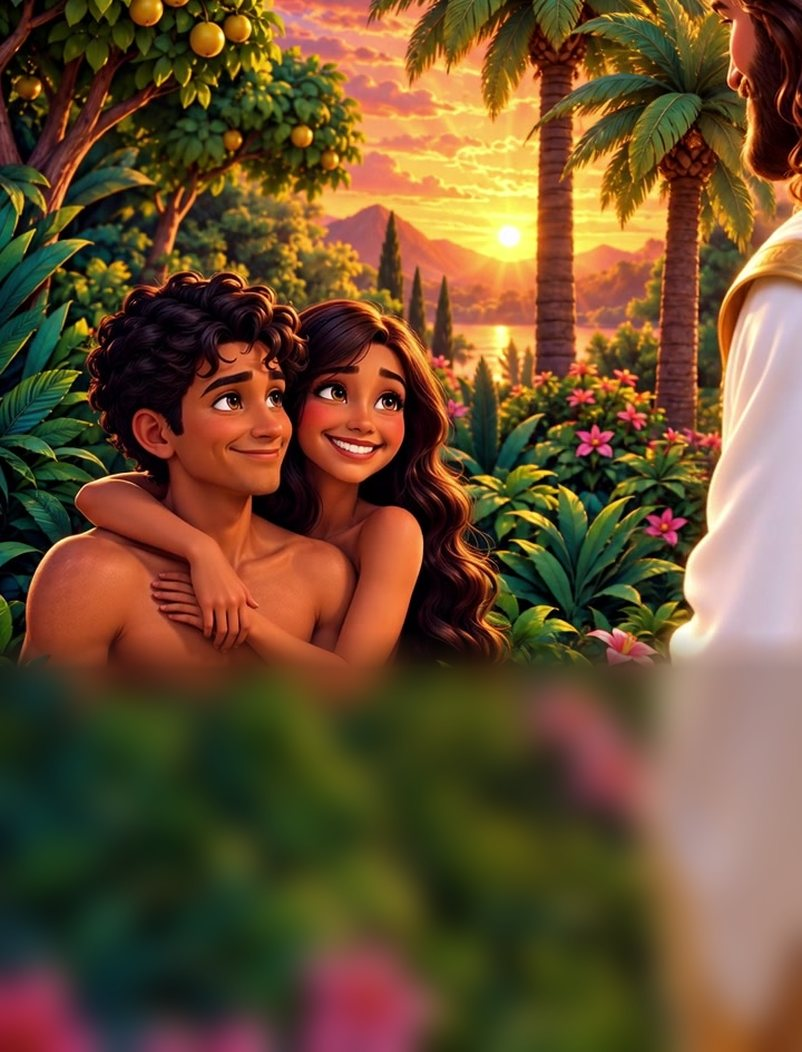
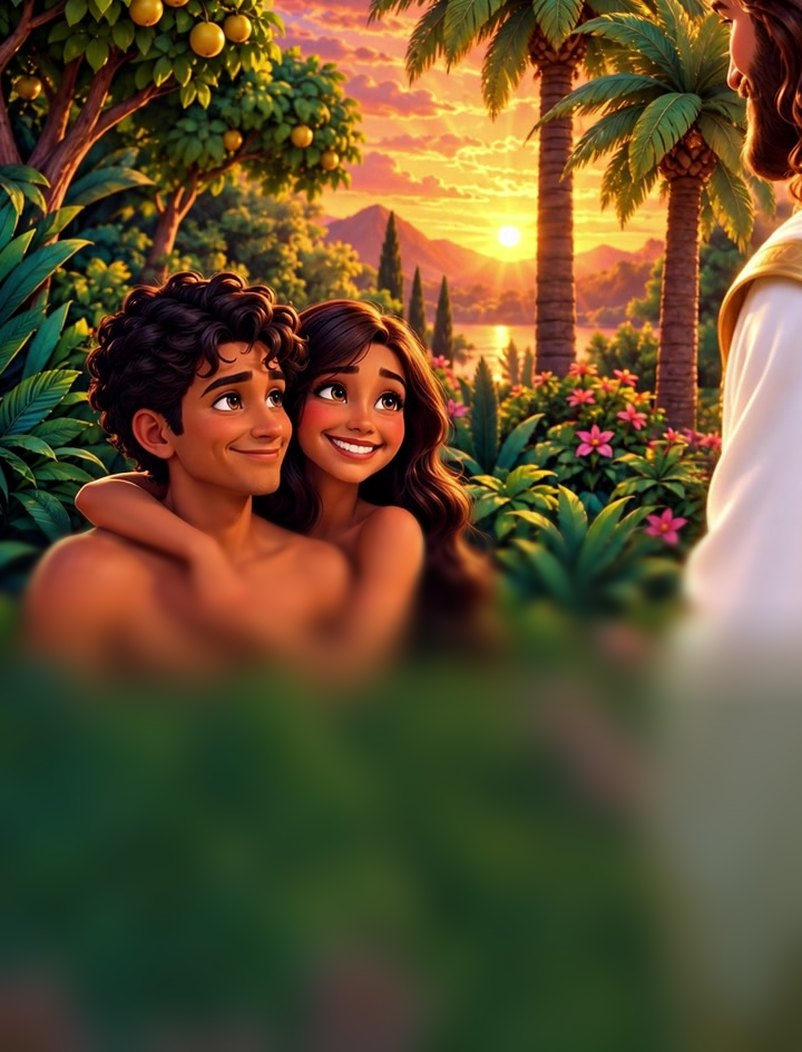
Tract: book-style progressive blur and text
Seven blur levels blended row by row so the picture softens gradually, then
deepens into the chapter colour like the book's pages; left-aligned words
with a gold page number.

Claude-Session: https://claude.ai/code/session_018ybeG9ZsRbCjgqasvbQwyc

diff --git a/tract.html b/tract.html
@@ -61,17 +61,13 @@ html,body{margin:0;background:#e9e7ef;color:var(--ink);font-family:var(--body)}
    its bottom melts into a blurred, chapter-tinted copy of the same picture, and the words sit on the blur in white. */
 .fr{position:absolute;inset:.12in;border-radius:.13in;overflow:hidden;background:#000;box-shadow:0 2pt 6pt rgba(0,0,0,.25)}
 .fr img{position:absolute;inset:0;width:100%;height:100%;object-fit:cover;display:block}
-/* the blur is baked into the pictures (tools/tract_art.py, blur from 60 %); this only adds the chapter colour on top of it */
-.fr .tint{position:absolute;inset:0;opacity:.5}
-.green .tint{background:linear-gradient(transparent 60%,var(--green) 63.5%)}.purple .tint{background:linear-gradient(transparent 60%,var(--purple) 63.5%)}
-.night .tint{background:linear-gradient(transparent 60%,var(--night) 63.5%)}.orange .tint{background:linear-gradient(transparent 60%,var(--orange) 63.5%)}
-.sky .tint{background:linear-gradient(transparent 60%,var(--sky) 63.5%)}
-.fr .txt{position:absolute;left:.2in;right:.2in;top:62%;bottom:.12in;display:flex;flex-direction:column;justify-content:center;align-items:center;color:#fff;text-align:center;
-  text-shadow:0 1px 2.5pt rgba(0,0,0,.55),0 0 10pt rgba(0,0,0,.3)}
-.num{position:absolute;left:.12in;top:.12in;z-index:2;width:.38in;height:.38in;border-radius:50%;
-  background:rgba(255,255,255,.92);color:var(--ink);font:900 12.5pt/.38in var(--display);text-align:center;box-shadow:0 1pt 4pt rgba(0,0,0,.3)}
-.cap{margin:0;font:700 10.2pt/1.38 var(--body)}
-.ref{margin:.07in 0 0;font:700 7.4pt/1.2 var(--body);opacity:.85;letter-spacing:.02em}
+/* the blur and the chapter colour are baked into the pictures (tools/tract_art.py), the same look as the book's pages */
+.fr .txt{position:absolute;left:.22in;right:.22in;bottom:.2in;color:#fff;text-align:left;
+  text-shadow:0 1px 2.5pt rgba(0,0,0,.55),0 0 10pt rgba(0,0,0,.25)}
+[dir=rtl] .fr .txt{text-align:right}
+.fr .no{margin:0 0 .04in;font:800 10pt var(--display);color:var(--gold)}
+.cap{margin:0;font:400 11pt/1.4 var(--body)}
+.ref{margin:.08in 0 0;font:400 7.6pt/1.2 var(--body);opacity:.8}
 .hint{display:inline-block;margin:.09in 0 0;padding:.04in .14in;border-radius:999px;background:var(--gold);color:#2B2233;font:900 8.2pt/1.2 var(--display);text-shadow:none;box-shadow:0 1.5pt 0 var(--gold2)}
 
 /* cover */
@@ -159,8 +155,8 @@ html,body{margin:0;background:#e9e7ef;color:var(--ink);font-family:var(--body)}
       const [img, y, col] = ART[i], [cap, ref] = tr.panels[i];
       const hint = i === 3 ? tr.unfold : i === 11 ? tr.turn : '';
       const pic = `<img src="art/tract/${String(i + 1).padStart(2, '0')}.jpg" alt="">`;
-      return [col, `<div class="fr">${pic}<div class="tint"></div>` +
-        `<div class="txt"><p class="cap">${esc(cap)}</p><p class="ref">${esc(ref)}</p>${hint ? `<p class="hint">${esc(hint)}</p>` : ''}</div></div><div class="num">${i + 1}</div>`];
+      return [col, `<div class="fr">${pic}` +
+        `<div class="txt"><p class="no">${i + 1}</p><p class="cap">${esc(cap)}</p><p class="ref">${esc(ref)}</p>${hint ? `<p class="hint">${esc(hint)}</p>` : ''}</div></div>`];
     };
     const coverP = ['cover', `<div class="art"></div><div class="shade"></div><div class="words"><h1>${esc(cover.title)}</h1><span class="tag">${esc(tr.tag)}</span></div>`];
     const backP = ['sky', `<div class="blurbg" style="background-image:url(art/tract/bg-gates-end.jpg)"></div><div class="sheetcard back"><h2>${esc(tr.home)}</h2><p class="intro">${esc(tr.free)}</p><div class="qr">${svg}</div>` +

diff --git a/ar/index.html b/ar/index.html
@@ -20,8 +20,8 @@
 <meta name="apple-mobile-web-app-status-bar-style" content="black-translucent">
 <meta name="theme-color" content="#2F7FD9">
 <link rel="icon" href="art/favicon-48.png" sizes="48x48">
-<link rel="stylesheet" href="fonts/fonts.css?v=20261017205320">
-<link rel="stylesheet" href="app.css?v=20261017205320">
+<link rel="stylesheet" href="fonts/fonts.css?v=20261017205911">
+<link rel="stylesheet" href="app.css?v=20261017205911">
 </head>
 <body>
 <main class="book" id="book"></main>
@@ -43,7 +43,7 @@
 </div>
 <div class="tip" id="tip" role="status" hidden></div>
 <div class="toast" id="toast" role="status" aria-live="polite"></div>
-<script src="app.js?v=20261017205320"></script>
+<script src="app.js?v=20261017205911"></script>
 <!-- Cloudflare Web Analytics (anonymous, no cookies) --><script defer src="https://static.cloudflareinsights.com/beacon.min.js" data-cf-beacon='{"token": "f07f476aee854a4f9d3679ffcecc1fa7"}'></script>
 </body>
 </html>

diff --git a/bn/index.html b/bn/index.html
@@ -20,8 +20,8 @@
 <meta name="apple-mobile-web-app-status-bar-style" content="black-translucent">
 <meta name="theme-color" content="#2F7FD9">
 <link rel="icon" href="art/favicon-48.png" sizes="48x48">
-<link rel="stylesheet" href="fonts/fonts.css?v=20261017205320">
-<link rel="stylesheet" href="app.css?v=20261017205320">
+<link rel="stylesheet" href="fonts/fonts.css?v=20261017205911">
+<link rel="stylesheet" href="app.css?v=20261017205911">
 </head>
 <body>
 <main class="book" id="book"></main>
@@ -43,7 +43,7 @@
 </div>
 <div class="tip" id="tip" role="status" hidden></div>
 <div class="toast" id="toast" role="status" aria-live="polite"></div>
-<script src="app.js?v=20261017205320"></script>
+<script src="app.js?v=20261017205911"></script>
 <!-- Cloudflare Web Analytics (anonymous, no cookies) --><script defer src="https://static.cloudflareinsights.com/beacon.min.js" data-cf-beacon='{"token": "f07f476aee854a4f9d3679ffcecc1fa7"}'></script>
 </body>
 </html>

diff --git a/da/index.html b/da/index.html
@@ -20,8 +20,8 @@
 <meta name="apple-mobile-web-app-status-bar-style" content="black-translucent">
 <meta name="theme-color" content="#2F7FD9">
 <link rel="icon" href="art/favicon-48.png" sizes="48x48">
-<link rel="stylesheet" href="fonts/fonts.css?v=20261017205320">
-<link rel="stylesheet" href="app.css?v=20261017205320">
+<link rel="stylesheet" href="fonts/fonts.css?v=20261017205911">
+<link rel="stylesheet" href="app.css?v=20261017205911">
 </head>
 <body>
 <main class="book" id="book"></main>
@@ -43,7 +43,7 @@
 </div>
 <div class="tip" id="tip" role="status" hidden></div>
 <div class="toast" id="toast" role="status" aria-live="polite"></div>
-<script src="app.js?v=20261017205320"></script>
+<script src="app.js?v=20261017205911"></script>
 <!-- Cloudflare Web Analytics (anonymous, no cookies) --><script defer src="https://static.cloudflareinsights.com/beacon.min.js" data-cf-beacon='{"token": "f07f476aee854a4f9d3679ffcecc1fa7"}'></script>
 </body>
 </html>

diff --git a/de/index.html b/de/index.html
@@ -20,8 +20,8 @@
 <meta name="apple-mobile-web-app-status-bar-style" content="black-translucent">
 <meta name="theme-color" content="#2F7FD9">
 <link rel="icon" href="art/favicon-48.png" sizes="48x48">
-<link rel="stylesheet" href="fonts/fonts.css?v=20261017205320">
-<link rel="stylesheet" href="app.css?v=20261017205320">
+<link rel="stylesheet" href="fonts/fonts.css?v=20261017205911">
+<link rel="stylesheet" href="app.css?v=20261017205911">
 </head>
 <body>
 <main class="book" id="book"></main>
@@ -43,7 +43,7 @@
 </div>
 <div class="tip" id="tip" role="status" hidden></div>
 <div class="toast" id="toast" role="status" aria-live="polite"></div>
-<script src="app.js?v=20261017205320"></script>
+<script src="app.js?v=20261017205911"></script>
 <!-- Cloudflare Web Analytics (anonymous, no cookies) --><script defer src="https://static.cloudflareinsights.com/beacon.min.js" data-cf-beacon='{"token": "f07f476aee854a4f9d3679ffcecc1fa7"}'></script>
 </body>
 </html>

diff --git a/en/index.html b/en/index.html
@@ -20,8 +20,8 @@
 <meta name="apple-mobile-web-app-status-bar-style" content="black-translucent">
 <meta name="theme-color" content="#2F7FD9">
 <link rel="icon" href="art/favicon-48.png" sizes="48x48">
-<link rel="stylesheet" href="fonts/fonts.css?v=20261017205320">
-<link rel="stylesheet" href="app.css?v=20261017205320">
+<link rel="stylesheet" href="fonts/fonts.css?v=20261017205911">
+<link rel="stylesheet" href="app.css?v=20261017205911">
 </head>
 <body>
 <main class="book" id="book"></main>
@@ -43,7 +43,7 @@
 </div>
 <div class="tip" id="tip" role="status" hidden></div>
 <div class="toast" id="toast" role="status" aria-live="polite"></div>
-<script src="app.js?v=20261017205320"></script>
+<script src="app.js?v=20261017205911"></script>
 <!-- Cloudflare Web Analytics (anonymous, no cookies) --><script defer src="https://static.cloudflareinsights.com/beacon.min.js" data-cf-beacon='{"token": "f07f476aee854a4f9d3679ffcecc1fa7"}'></script>
 </body>
 </html>

diff --git a/es/index.html b/es/index.html
@@ -20,8 +20,8 @@
 <meta name="apple-mobile-web-app-status-bar-style" content="black-translucent">
 <meta name="theme-color" content="#2F7FD9">
 <link rel="icon" href="art/favicon-48.png" sizes="48x48">
-<link rel="stylesheet" href="fonts/fonts.css?v=20261017205320">
-<link rel="stylesheet" href="app.css?v=20261017205320">
+<link rel="stylesheet" href="fonts/fonts.css?v=20261017205911">
+<link rel="stylesheet" href="app.css?v=20261017205911">
 </head>
 <body>
 <main class="book" id="book"></main>
@@ -43,7 +43,7 @@
 </div>
 <div class="tip" id="tip" role="status" hidden></div>
 <div class="toast" id="toast" role="status" aria-live="polite"></div>
-<script src="app.js?v=20261017205320"></script>
+<script src="app.js?v=20261017205911"></script>
 <!-- Cloudflare Web Analytics (anonymous, no cookies) --><script defer src="https://static.cloudflareinsights.com/beacon.min.js" data-cf-beacon='{"token": "f07f476aee854a4f9d3679ffcecc1fa7"}'></script>
 </body>
 </html>

diff --git a/fr/index.html b/fr/index.html
@@ -20,8 +20,8 @@
 <meta name="apple-mobile-web-app-status-bar-style" content="black-translucent">
 <meta name="theme-color" content="#2F7FD9">
 <link rel="icon" href="art/favicon-48.png" sizes="48x48">
-<link rel="stylesheet" href="fonts/fonts.css?v=20261017205320">
-<link rel="stylesheet" href="app.css?v=20261017205320">
+<link rel="stylesheet" href="fonts/fonts.css?v=20261017205911">
+<link rel="stylesheet" href="app.css?v=20261017205911">
 </head>
 <body>
 <main class="book" id="book"></main>
@@ -43,7 +43,7 @@
 </div>
 <div class="tip" id="tip" role="status" hidden></div>
 <div class="toast" id="toast" role="status" aria-live="polite"></div>
-<script src="app.js?v=20261017205320"></script>
+<script src="app.js?v=20261017205911"></script>
 <!-- Cloudflare Web Analytics (anonymous, no cookies) --><script defer src="https://static.cloudflareinsights.com/beacon.min.js" data-cf-beacon='{"token": "f07f476aee854a4f9d3679ffcecc1fa7"}'></script>
 </body>
 </html>

diff --git a/he/index.html b/he/index.html
@@ -20,8 +20,8 @@
 <meta name="apple-mobile-web-app-status-bar-style" content="black-translucent">
 <meta name="theme-color" content="#2F7FD9">
 <link rel="icon" href="art/favicon-48.png" sizes="48x48">
-<link rel="stylesheet" href="fonts/fonts.css?v=20261017205320">
-<link rel="stylesheet" href="app.css?v=20261017205320">
+<link rel="stylesheet" href="fonts/fonts.css?v=20261017205911">
+<link rel="stylesheet" href="app.css?v=20261017205911">
 </head>
 <body>
 <main class="book" id="book"></main>
@@ -43,7 +43,7 @@
 </div>
 <div class="tip" id="tip" role="status" hidden></div>
 <div class="toast" id="toast" role="status" aria-live="polite"></div>
-<script src="app.js?v=20261017205320"></script>
+<script src="app.js?v=20261017205911"></script>
 <!-- Cloudflare Web Analytics (anonymous, no cookies) --><script defer src="https://static.cloudflareinsights.com/beacon.min.js" data-cf-beacon='{"token": "f07f476aee854a4f9d3679ffcecc1fa7"}'></script>
 </body>
 </html>

diff --git a/hi/index.html b/hi/index.html
@@ -20,8 +20,8 @@
 <meta name="apple-mobile-web-app-status-bar-style" content="black-translucent">
 <meta name="theme-color" content="#2F7FD9">
 <link rel="icon" href="art/favicon-48.png" sizes="48x48">
-<link rel="stylesheet" href="fonts/fonts.css?v=20261017205320">
-<link rel="stylesheet" href="app.css?v=20261017205320">
+<link rel="stylesheet" href="fonts/fonts.css?v=20261017205911">
+<link rel="stylesheet" href="app.css?v=20261017205911">
 </head>
 <body>
 <main class="book" id="book"></main>
@@ -43,7 +43,7 @@
 </div>
 <div class="tip" id="tip" role="status" hidden></div>
 <div class="toast" id="toast" role="status" aria-live="polite"></div>
-<script src="app.js?v=20261017205320"></script>
+<script src="app.js?v=20261017205911"></script>
 <!-- Cloudflare Web Analytics (anonymous, no cookies) --><script defer src="https://static.cloudflareinsights.com/beacon.min.js" data-cf-beacon='{"token": "f07f476aee854a4f9d3679ffcecc1fa7"}'></script>
 </body>
 </html>

diff --git a/index.html b/index.html
@@ -20,8 +20,8 @@
 <meta name="apple-mobile-web-app-status-bar-style" content="black-translucent">
 <meta name="theme-color" content="#2F7FD9">
 <link rel="icon" href="art/favicon-48.png" sizes="48x48">
-<link rel="stylesheet" href="fonts/fonts.css?v=20261017205320">
-<link rel="stylesheet" href="app.css?v=20261017205320">
+<link rel="stylesheet" href="fonts/fonts.css?v=20261017205911">
+<link rel="stylesheet" href="app.css?v=20261017205911">
 </head>
 <body>
 <main class="book" id="book"></main>
@@ -43,7 +43,7 @@
 </div>
 <div class="tip" id="tip" role="status" hidden></div>
 <div class="toast" id="toast" role="status" aria-live="polite"></div>
-<script src="app.js?v=20261017205320"></script>
+<script src="app.js?v=20261017205911"></script>
 <!-- Cloudflare Web Analytics (anonymous, no cookies) --><script defer src="https://static.cloudflareinsights.com/beacon.min.js" data-cf-beacon='{"token": "f07f476aee854a4f9d3679ffcecc1fa7"}'></script>
 </body>
 </html>

diff --git a/ja/index.html b/ja/index.html
@@ -20,8 +20,8 @@
 <meta name="apple-mobile-web-app-status-bar-style" content="black-translucent">
 <meta name="theme-color" content="#2F7FD9">
 <link rel="icon" href="art/favicon-48.png" sizes="48x48">
-<link rel="stylesheet" href="fonts/fonts.css?v=20261017205320">
-<link rel="stylesheet" href="app.css?v=20261017205320">
+<link rel="stylesheet" href="fonts/fonts.css?v=20261017205911">
+<link rel="stylesheet" href="app.css?v=20261017205911">
 </head>
 <body>
 <main class="book" id="book"></main>
@@ -43,7 +43,7 @@
 </div>
 <div class="tip" id="tip" role="status" hidden></div>
 <div class="toast" id="toast" role="status" aria-live="polite"></div>
-<script src="app.js?v=20261017205320"></script>
+<script src="app.js?v=20261017205911"></script>
 <!-- Cloudflare Web Analytics (anonymous, no cookies) --><script defer src="https://static.cloudflareinsights.com/beacon.min.js" data-cf-beacon='{"token": "f07f476aee854a4f9d3679ffcecc1fa7"}'></script>
 </body>
 </html>
